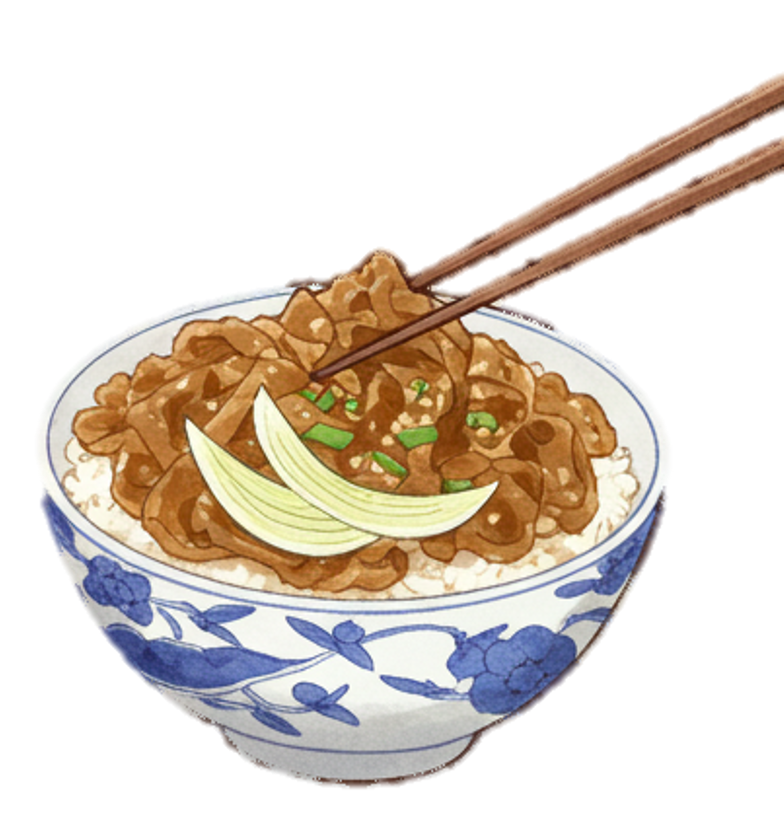
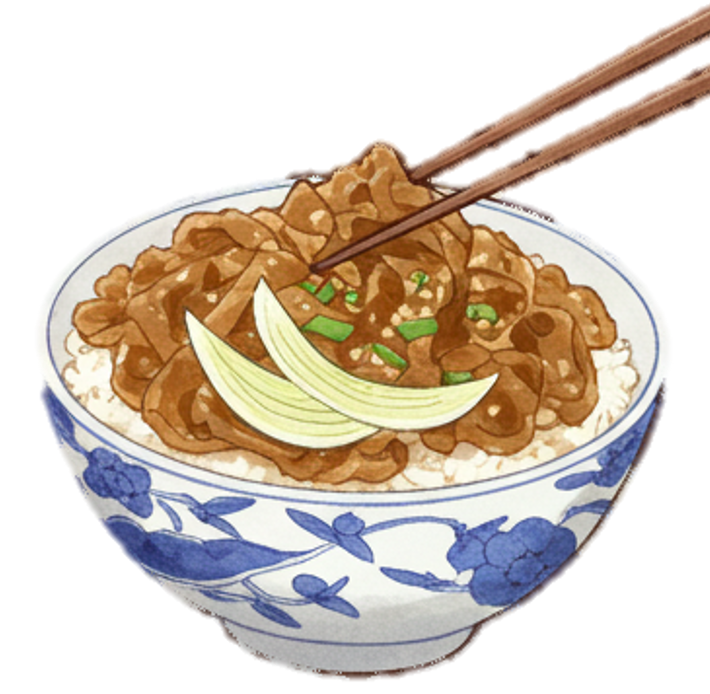
#70 update images

diff --git a/js/cuisines.js b/js/cuisines.js
@@ -65,7 +65,7 @@ export class Cuisines {
     console.log(selectedCuisine);
     this.selectedName.textContent = selectedCuisine.name;
     this.selectedJpName.textContent = selectedCuisine.nameJP;
-    this.selectedImage.src = `${this.imageBaseDir}/single/${selectedCuisine.image}`;
+    this.selectedImage.src = `${this.imageBaseDir}/scene/${selectedCuisine.image}`;
     this.selectedExplanation.textContent = selectedCuisine.explanation;
   }
 
